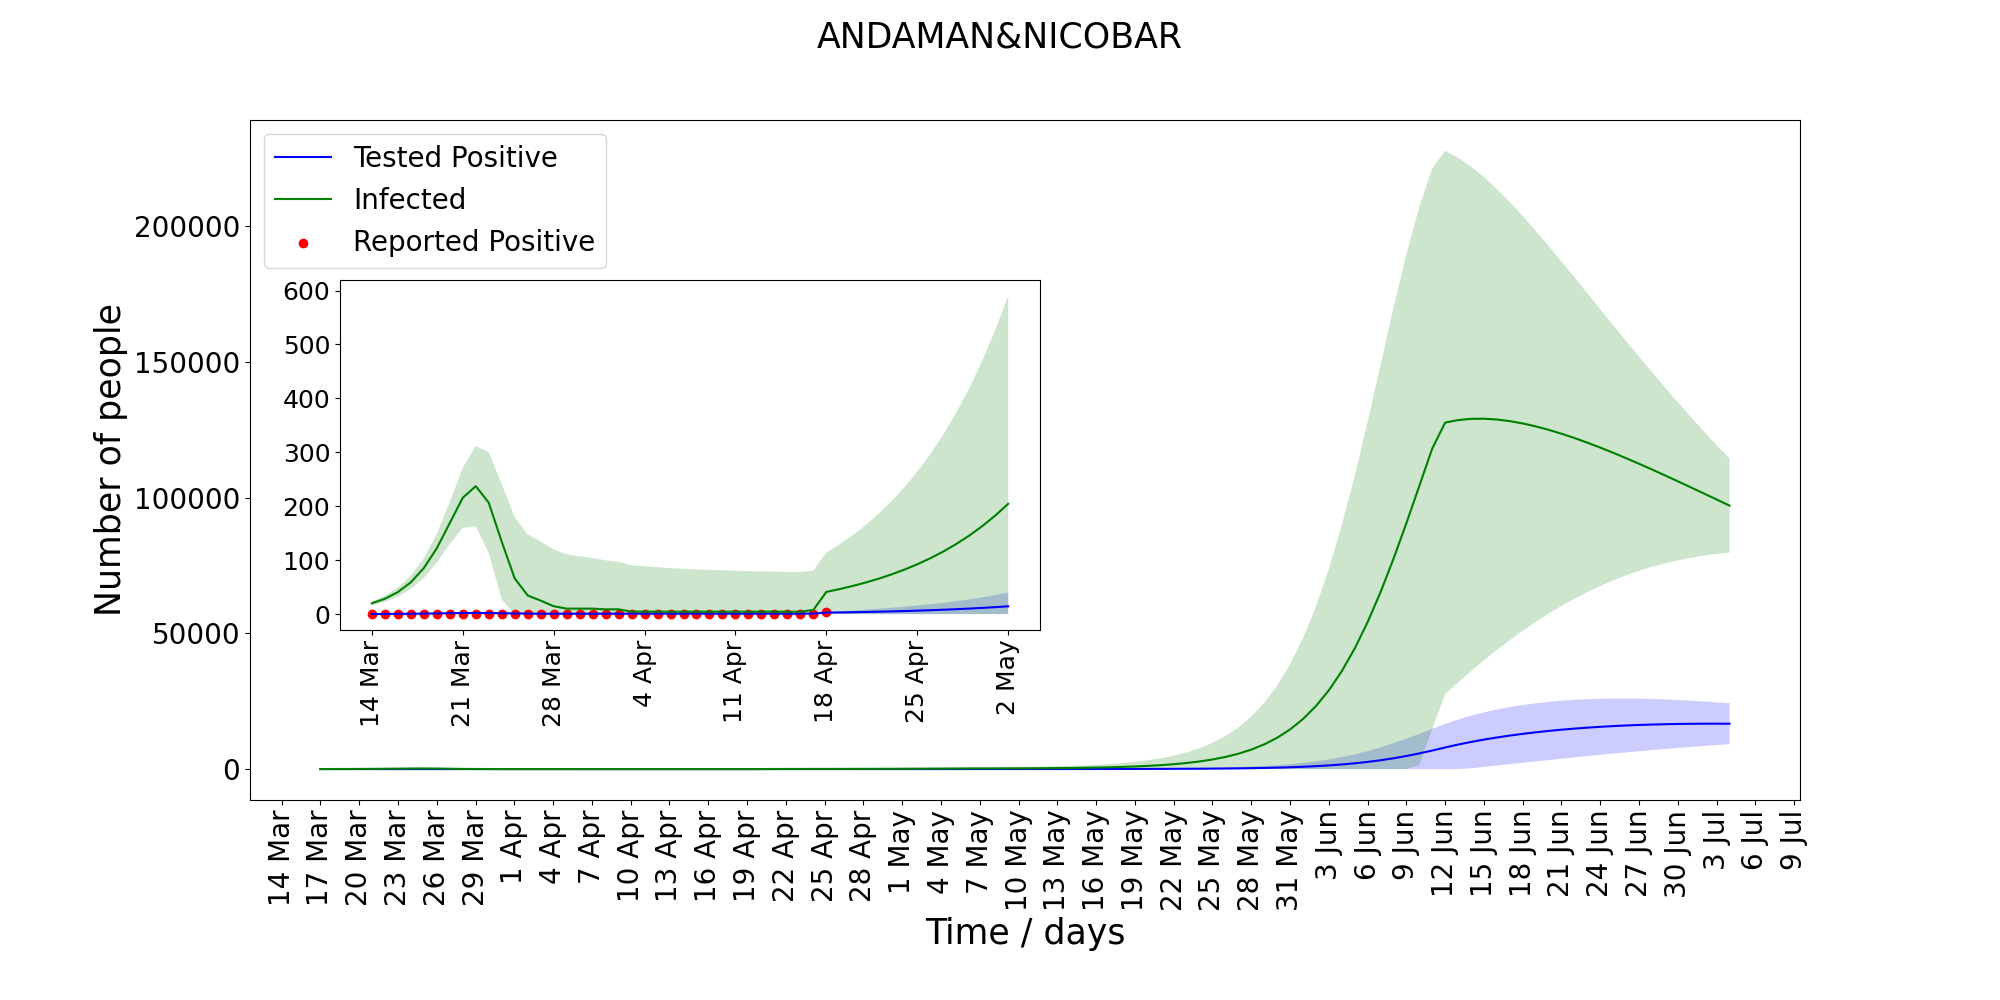
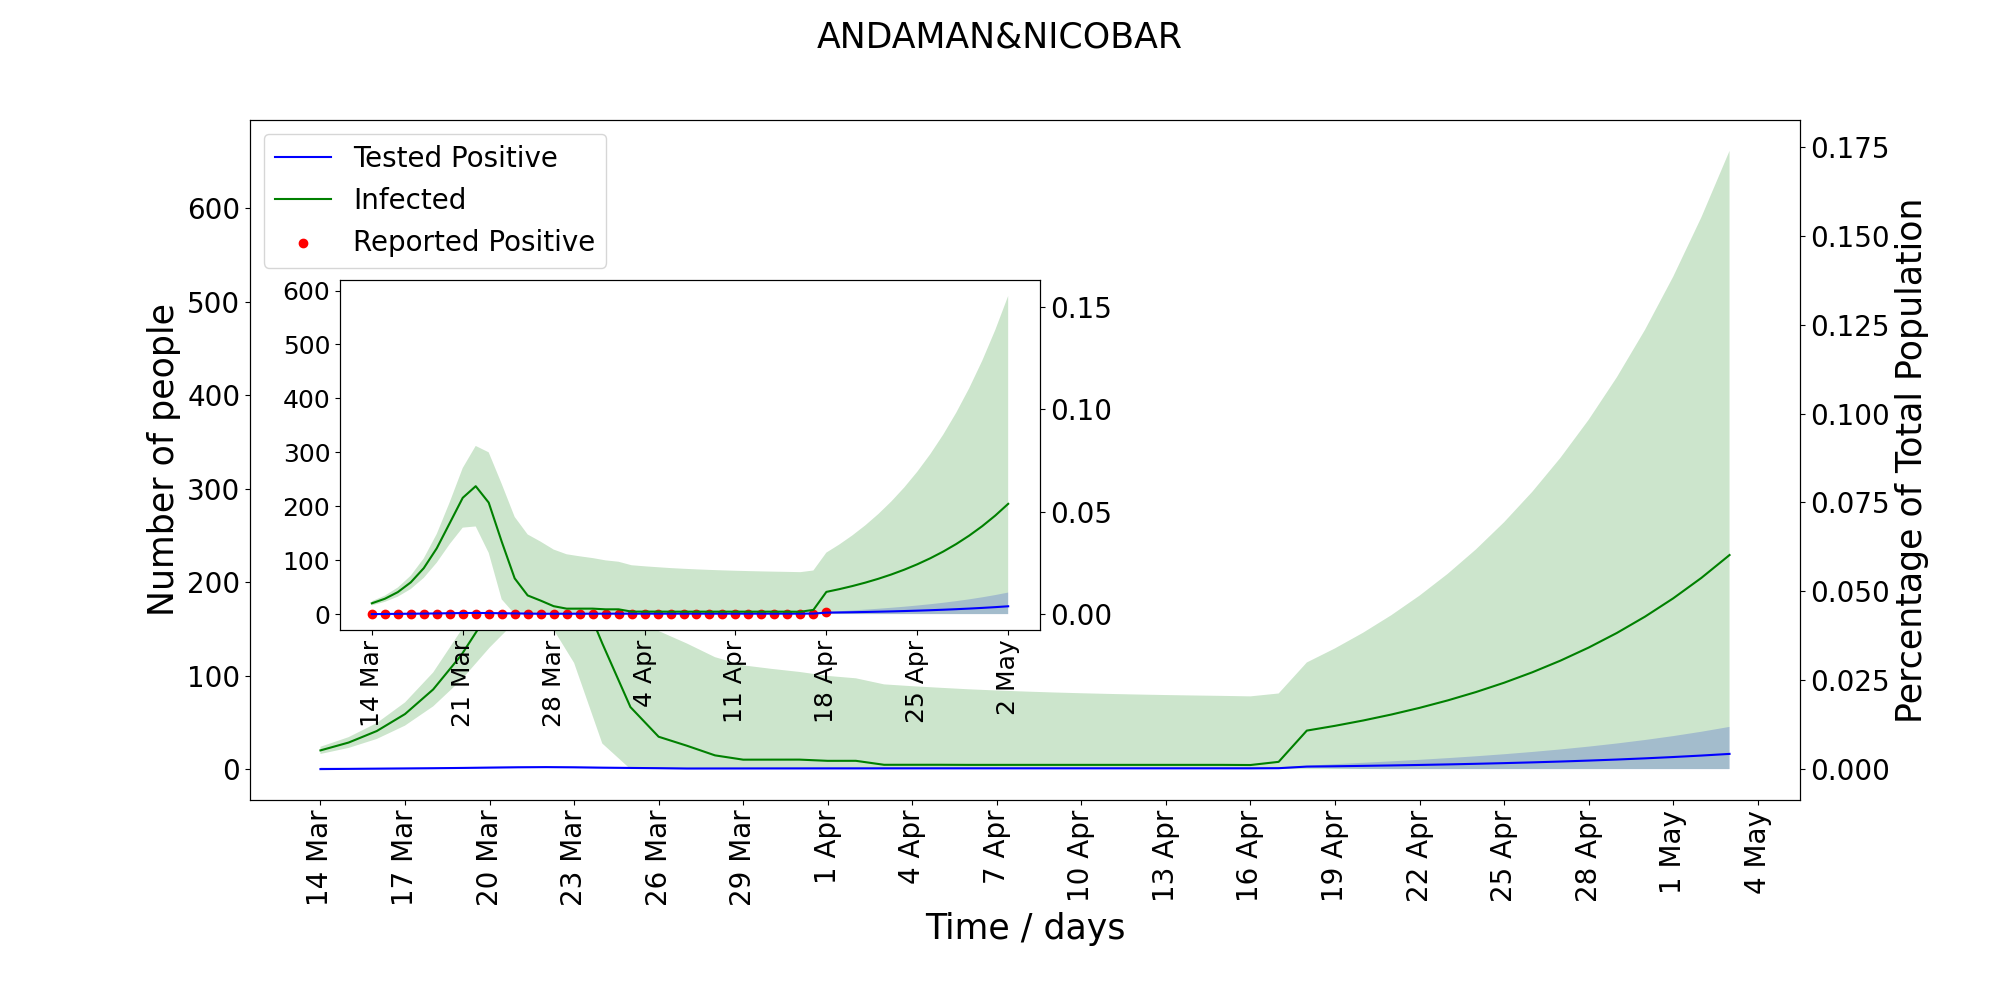
Added population to the right labels

diff --git a/Plot.py b/Plot.py
@@ -13,32 +13,21 @@ def gather(T, series, variances, indices):
     outputVariances = [np.sqrt(x) for x in outputVariances]
     return np.array(outputSeries), np.array(outputVariances)
 
-def statePlot (series, variances, state, beginDate, step, groundTruth) : 
+def statePlot (series, variances, state, beginDate, step, groundTruth,population = None) : 
     T = len(series)
     compartments = {k: [3*i, 3*i + 1, 3*i + 2] for i, k in enumerate(['S', 'E', 'A', 'I', 'Xs', 'Xe', 'Xa', 'Xi', 'P', 'R'])}
-    '''
-    bins = ['0-20', '20-60', '60+']
-    series = series.T.reshape((10, -1, T))
-    std = np.sqrt(variances.T.reshape((10, -1, T)))
-    fig, ax = plt.subplots(nrows=5, ncols=2, sharex=True, figsize=(20, 15))
-    fig.suptitle(state)
-    tickLabels = list(DateIter(beginDate, beginDate + T))[::step]
-    tickLabels = [d.date for d in tickLabels]
-    days = np.array([np.arange(T) for _ in range(3)])
-    for a, var, st, c in zip(collapse(ax), series, std, compartments): 
-        labels = [c + '_' + b for b in bins]
-        lines = a.plot(days.T, var.T)
-        a.legend(lines, labels)
-        for v, s, l in zip(var, st, lines) : 
-            a.fill_between(np.arange(T), np.maximum(v-s, 0), v+s, facecolor=l.get_c(), alpha=0.2)
-        a.set_xlabel('Time / days')
-        a.set_ylabel('Number of people')
-        a.set_yscale('log')
-        a.xaxis.set_major_locator(ticker.MultipleLocator(step))
-        a.set_xticklabels(tickLabels, rotation = 'vertical')
-    fig.savefig('./Plots/' + state)
-    plt.close(fig)
-    '''
+    # Define a closure function to register as a callback
+    
+    def convert_numbers_to_fraction(axis):
+        y1, y2 = axis.get_ylim()
+        rightAxis.set_ylim(100. * float(y1) / population, 100. * float(y2) / population)
+        rightAxis.figure.canvas.draw()
+
+    def convert_numbers_to_fraction2(axis):
+        y1, y2 = axis.get_ylim()
+        rightAxis2.set_ylim(100. * float(y1) / population, 100. * float(y2) / population)
+        rightAxis2.figure.canvas.draw()
+
     colors = ['b', 'g', 'r']
     p, p_std = gather(T, series, variances, compartments['P'])
     symptomatics, symptomatics_std = gather(T, series, variances, compartments['P'] + compartments['I'] + compartments['Xi'] + compartments['A'] + compartments['Xa'])
@@ -70,6 +59,11 @@ def statePlot (series, variances, state, beginDate, step, groundTruth) :
     #Plotting Actual State Predictions
 
     fig, ax1 = plt.subplots(nrows=1, ncols=1, sharex=True, figsize=(20, 10))
+
+    if population is not None:
+        rightAxis = ax1.twinx()
+        ax1.callbacks.connect("ylim_changed", convert_numbers_to_fraction)
+
     fig.suptitle(state, fontsize=25)
     
     ax1.plot(np.arange(T), p, color = colors[0], label = "Tested Positive")
@@ -81,19 +75,27 @@ def statePlot (series, variances, state, beginDate, step, groundTruth) :
     # groundTruthPositive = (groundTruth['Total Cases'] - groundTruth['Total Recovered'] - groundTruth['Total Dead']).to_numpy()
     # ax1.scatter(np.arange(len(groundTruthPositive)), groundTruthPositive, c= colors[2], label = "Reported Positive")
     ax1.scatter(np.arange(0), [], c= colors[2], label = "Reported Positive")
-    
+
     ax1.legend(fontsize = 20, loc="upper left")
     ax1.set_xlabel('Time / days', fontsize=25)
     ax1.set_ylabel('Number of people', fontsize=25)
+    rightAxis.set_ylabel('Percentage of Total Population', fontsize=25)
     # ax1.set_yscale('log')
     ax1.xaxis.set_major_locator(ticker.MultipleLocator(step))
     ax1.set_xticklabels(tickLabels, rotation = 'vertical')
     ax1.tick_params(axis='both', which='major', labelsize=20)
-
+    if population is not None:
+        rightAxis.tick_params(axis='both', which='major', labelsize=20)
 
     #### INSET GRAPH
     left, bottom, width, height = [0.17, 0.37, 0.35, 0.35]
     ax2 = fig.add_axes([left, bottom, width, height])
+    
+    if population is not None:
+        rightAxis2 = ax2.twinx()
+        ax2.callbacks.connect("ylim_changed", convert_numbers_to_fraction2)
+        rightAxis2.tick_params(axis='both', which='major', labelsize=20)
+
     T2 = Date('3 May') - beginDate
     
     p = p[:T2]

diff --git a/Simulate.py b/Simulate.py
@@ -145,7 +145,7 @@ if __name__ == "__main__" :
         lastSeries.append(series[-1])
         seriesOfVariances.append(variances[0:-1])
         lastVariance.append(variances[-1])
-        Plot.statePlot(series, variances, state, ks.startDate, 3, datum)
+        Plot.statePlot(series, variances, state, ks.startDate, 3, datum, population = nbar.sum())
 
     x0 = np.hstack(lastSeries)
     n = x0.size
@@ -178,9 +178,9 @@ if __name__ == "__main__" :
         pickle.dump(seriesOfVariances, fd)
 
     state_id = 1
-    for m, datum, series, variance ,state in zip(model.models, data, seriesOfSeries, seriesOfVariances, Model.STATES) : 
+    for m, datum, series, variance ,state, population in zip(model.models, data, seriesOfSeries, seriesOfVariances, Model.STATES, statePop) : 
         ks = KalmanSimulator(datum, m, x0)
-        Plot.statePlot(series, variance, state, ks.startDate, 3, datum)
+        Plot.statePlot(series, variance, state, ks.startDate, 3, datum, population = population)
 
         # outputting into the csv
         # need to estimate daily values from the timeseries of all the compartments
